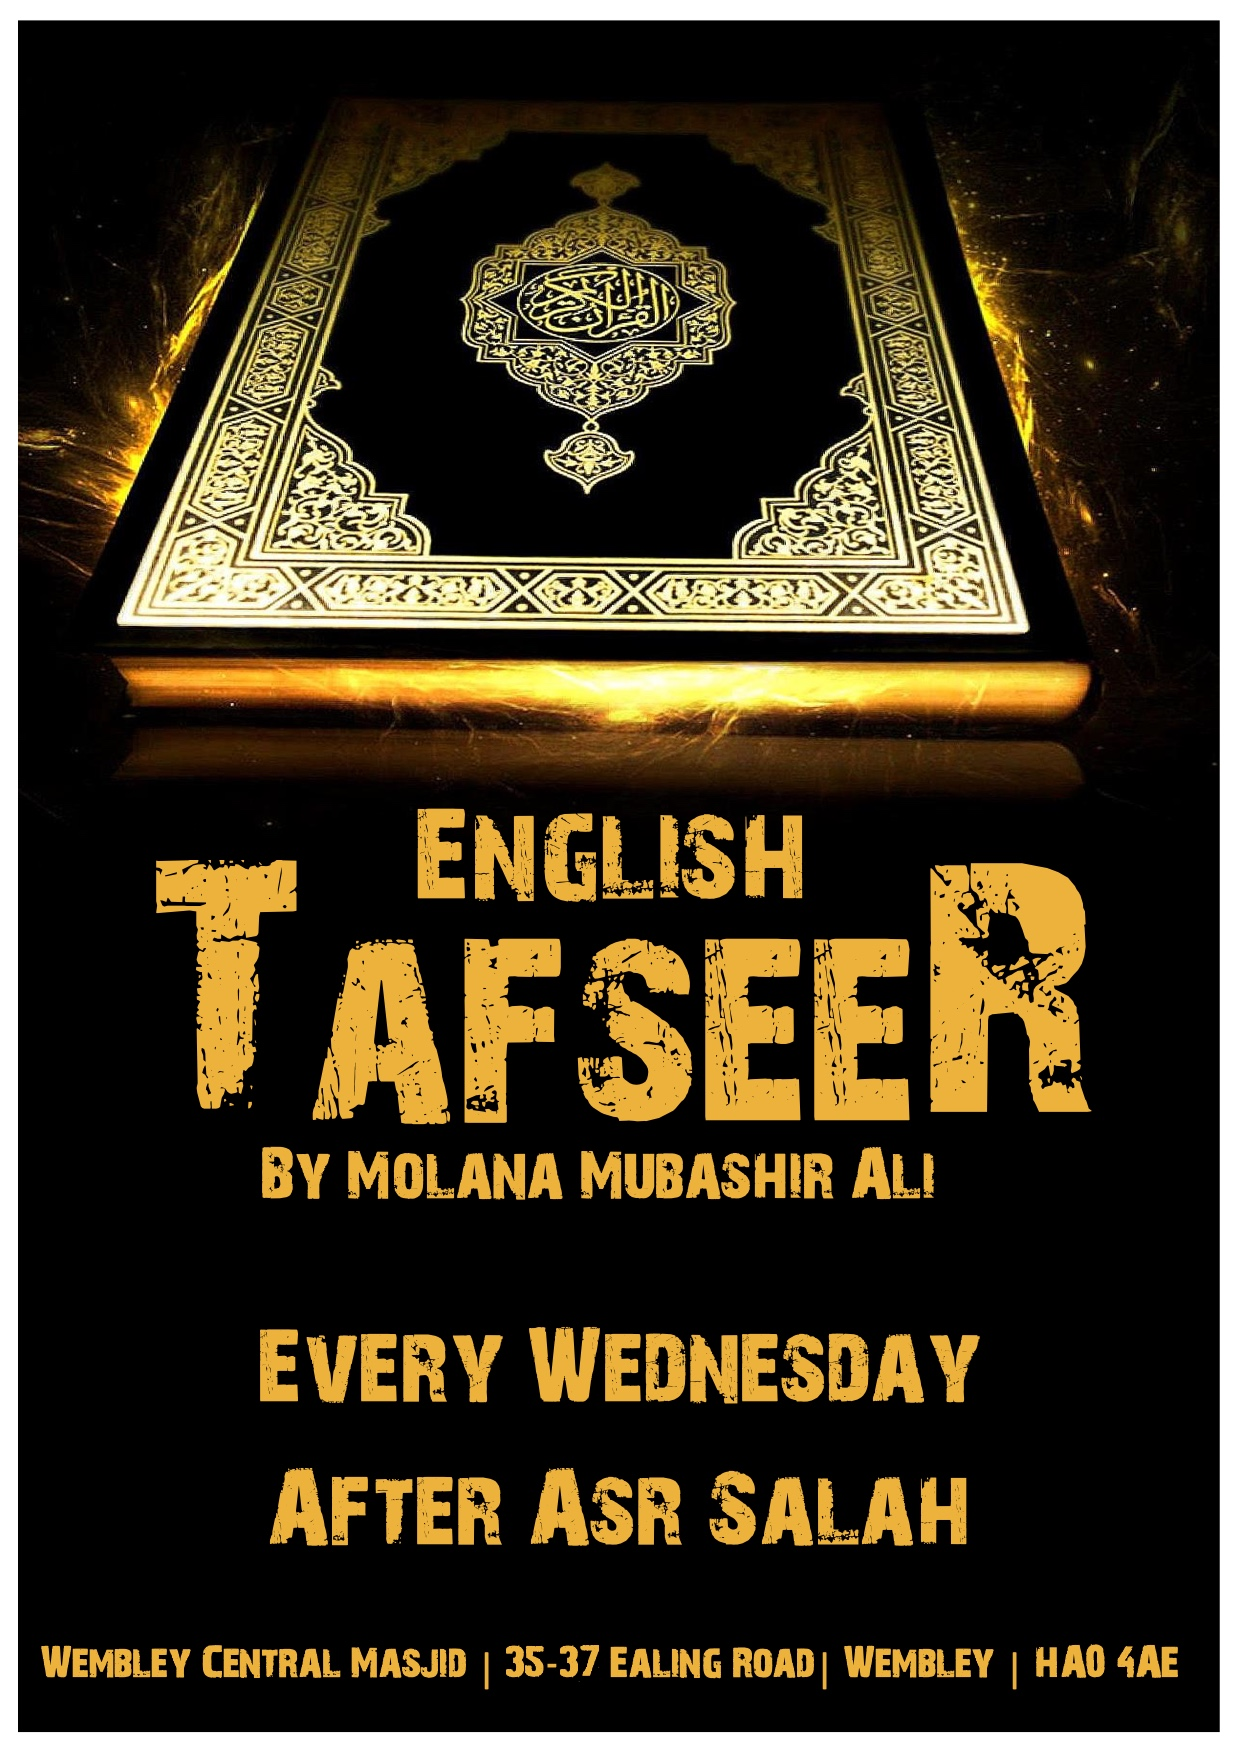
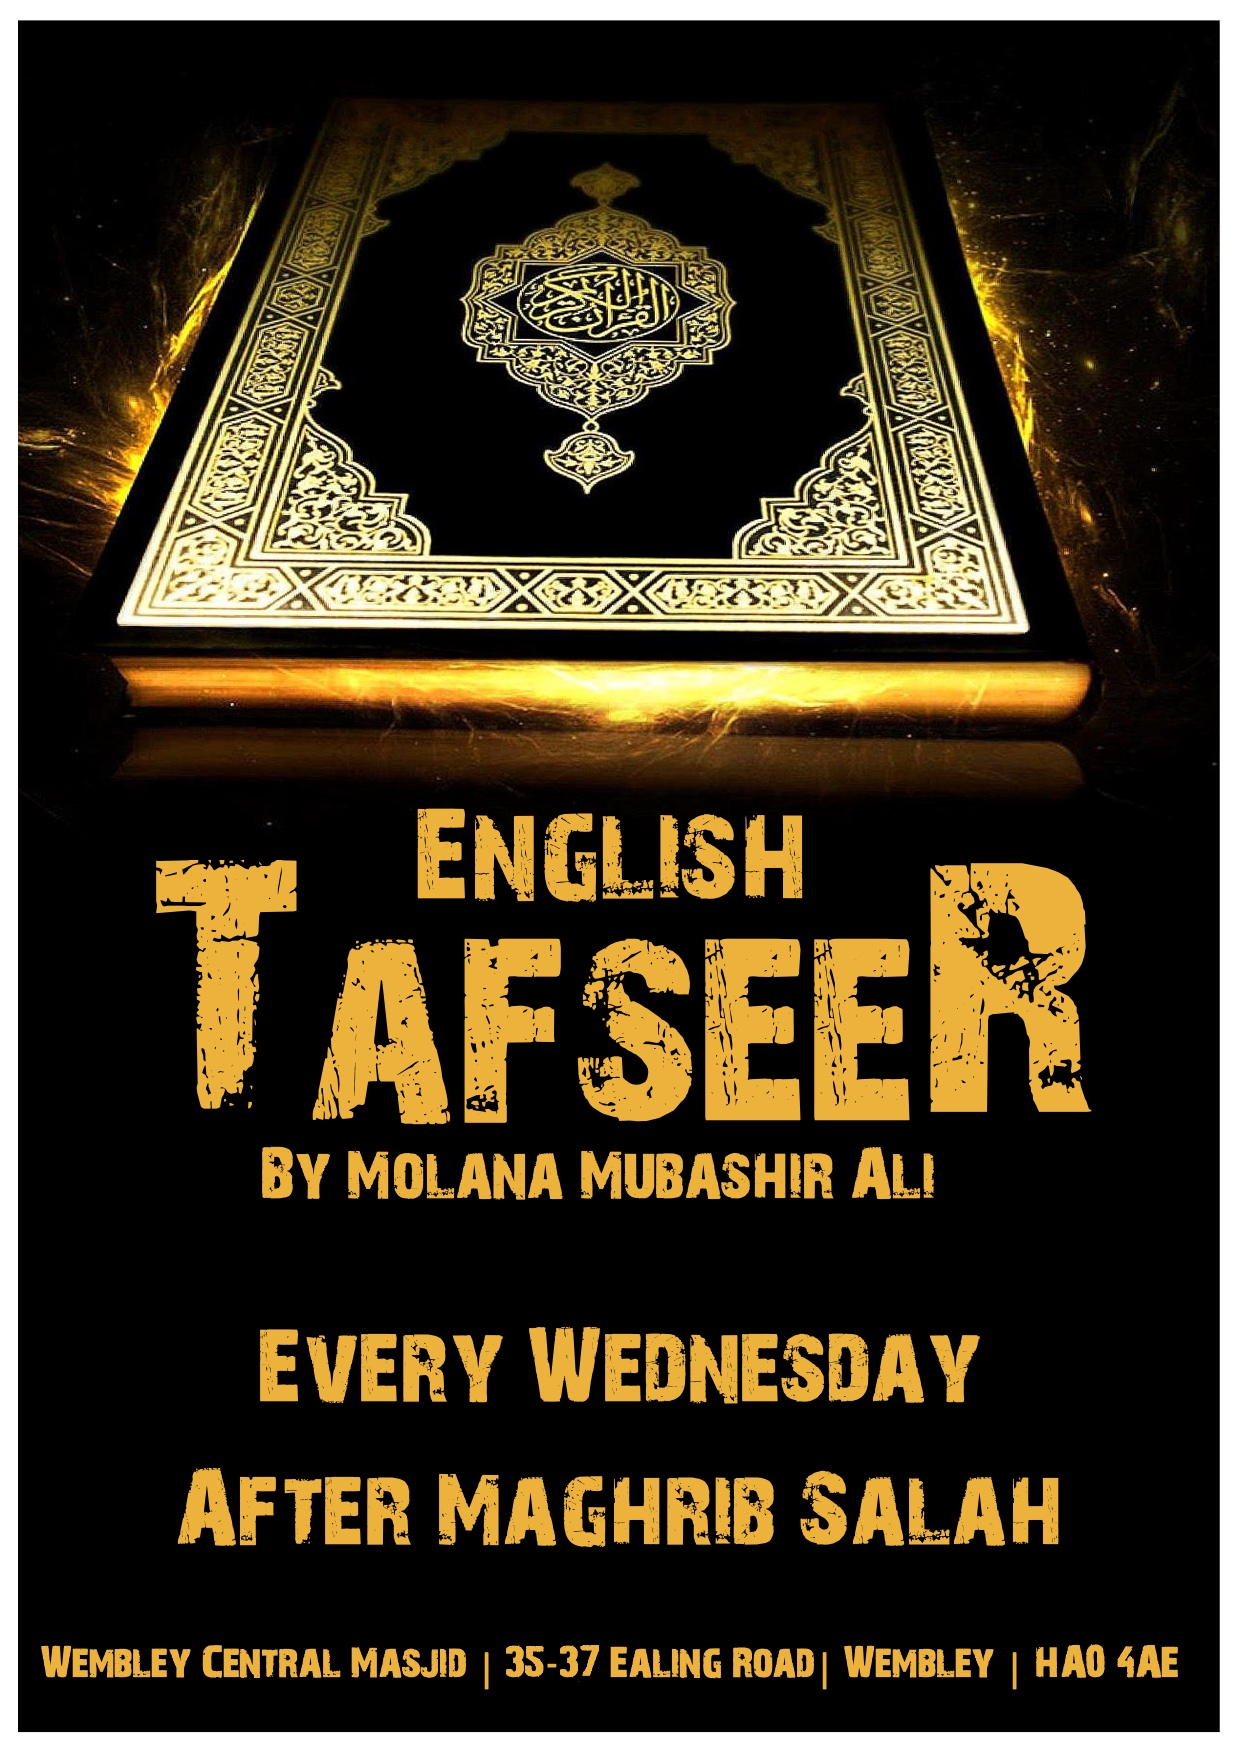
tidy content.js

Changed region(s): [[0.1226, 0.8312, 0.8581, 0.8928]]

diff --git a/data/content.js b/data/content.js
@@ -1,29 +1,12 @@
 App.content = [
     {
-        "image": "eid.jpeg",
-        "toDate": "2024-04-10 23:59:00"
+        "image": "juma_0130.jpg"
     },
     {
-        "image": "eid_salah.jpeg",
-        "toDate": "2024-04-10 10:00:00"
+        "image": "english_tafseer.jpg"
     },
     {
-        "image": "juma_0130.jpg",
-        "fromDate": "2024-03-29 13:30:00"
-    },
-    {
-        "image": "juma_0100.jpg",
-        "toDate": "2024-03-29 13:30:00"
-    },
-    {
-        "image": "iftar.jpg",
-        "toDate": "2024-04-08 23:59:00"
-    },
-    {
-        "image": "english_tafseer_asr.jpg",
-    },
-    {
-        "image": "urdu_seerah_asr.jpg",
+        "image": "urdu_seerah.jpg"
     }
 /*    {
         "image": "page_2.jpg",
